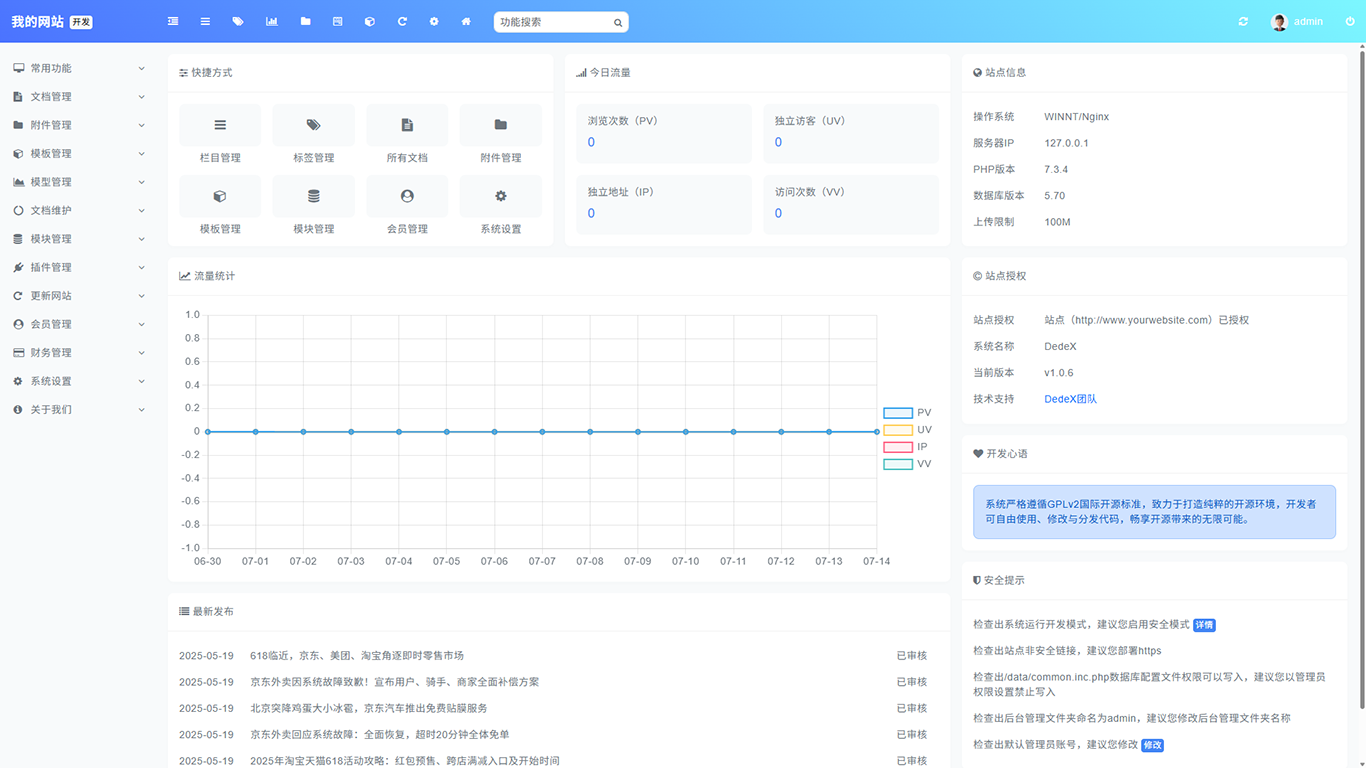
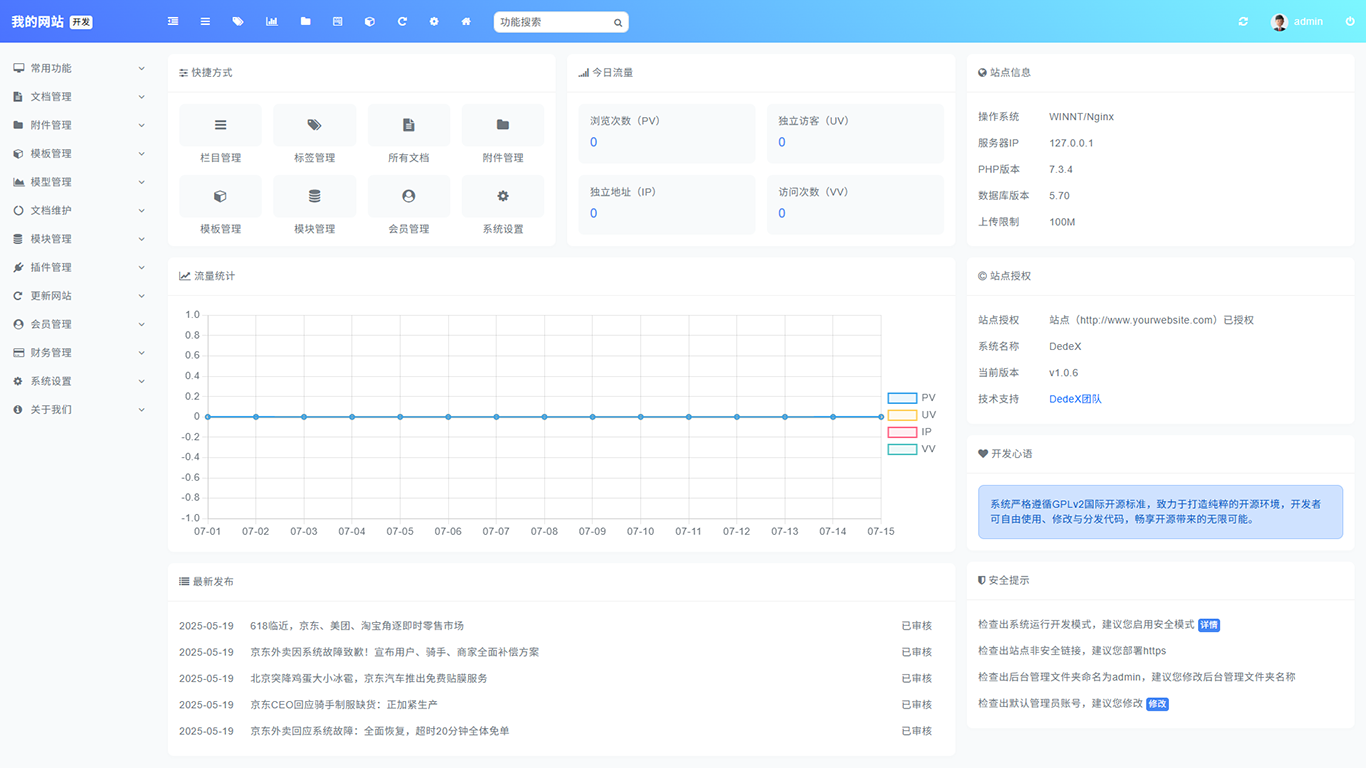
Localize and clarify error messages across codebase
Replaced English error and status messages with Chinese equivalents throughout admin, app, and system files for improved localization and user clarity. Also made minor code and comment clarifications, such as variable naming and comment updates, and adjusted some CSS canvas heights for better UI consistency.

diff --git a/src/admin/templets/module_main.htm b/src/admin/templets/module_main.htm
@@ -74,7 +74,6 @@
 										</td>
 										<td>
 											<div id="manager_<?php echo $v['hash'];?>" <?php if (!file_exists(DEDEDATA."/module/{$v['hash']}.xml")) echo "style='display:none'"?>>
-												<a class="btn btn-light btn-sm" href="module_main.php?action=view_developoer&hash=<?php echo $v['hash'];?>"><i class="fa fa-user-circle" title="贡献者"></i></a>
 												<a class="btn btn-light btn-sm" href="module_main.php?action=view&hash=<?php echo $v['hash'];?>"><i class="fa fa-eye" title="查看"></i></a>
 												<a class="btn btn-light btn-sm" href="module_main.php?action=edit&hash=<?php echo $v['hash'];?>"><i class="fa fa-pencil-square" title="修改"></i></a>
 												<a class="btn btn-danger btn-sm" href="module_main.php?action=del&hash=<?php echo $v['hash'];?>"><i class="fa fa-trash" title="删除"></i></a>

diff --git a/src/static/web/css/admin.css b/src/static/web/css/admin.css
@@ -666,7 +666,7 @@ body.menu-show .admin-content {
 	border-bottom:1px solid rgba(0,0,0,0.05)
 }
 .card-body canvas {
-	height:350px!important
+	height:328px!important
 }
 .table {
 	margin-bottom:0;
@@ -803,7 +803,7 @@ input,select,textarea,.adminmodal,.fastselect .topcat,.mysource,.mywriter,.tipsl
 		padding:0.75rem
 	}
 	.card-body canvas {
-		height:220px!important
+		height:218px!important
 	}
 	.adminmodal {
 		padding:0 0.5rem

diff --git a/src/system/common.inc.php b/src/system/common.inc.php
@@ -4,9 +4,9 @@
  * @package        DedeX.Libraries
  * @license        GNU GPL v2 (/license.txt)
  */
-//系统默认运行模式为安全模式，模板管理、标签管理、数据库管理、模块管理等功能已暂停，如果您需要这些功能，DEDEX_SAFE_MODE后面值`TRUE`改为`FALSE`恢复使用
+//系统默认运行模式为安全模式，模板管理、标签管理、数据库管理、模块管理等功能已暂停，如果您需要这些功能，DEDEX_SAFE_MODE后面值TRUE改为FALSE恢复使用
 define('DEDEX_SAFE_MODE', FALSE);
-//生产环境使用`production`，如果采用`dev`模式，会有一些php的报错信息提示，用于开发调试
+//生产环境使用production，如果采用dev模式，会有一些php的报错信息提示，用于开发调试
 if (!defined('DEDE_ENVIRONMENT')) {
     define('DEDE_ENVIRONMENT', 'production');
 }
@@ -71,7 +71,7 @@ function _RunMagicQuotes(&$svar)
         }
     } else {
         if (strlen($svar) > 0 && preg_match('#^(cfg_|GLOBALS|_GET|_REQUEST|_POST|_COOKIE|_SESSION)#', $svar)) {
-            exit('The requested operation is forbidden');
+            exit('所请求的操作被禁止');
         }
         $svar = addslashes($svar);
     }
@@ -80,7 +80,7 @@ function _RunMagicQuotes(&$svar)
 foreach (array('_GET', '_POST', '_COOKIE') as $_req) {
     foreach ($$_req as $_k => $_v) {
         if (preg_match('#^(cfg_|GLOBALS|_GET|_REQUEST|_POST|_COOKIE|_SESSION)#', $_k)) {
-            exit('The requested operation is forbidden');
+            exit('所请求的操作被禁止');
         }
         if ($_k == 'nvarname') ${$_k} = $_v;
         else ${$_k} = _RunMagicQuotes($_v);
@@ -135,37 +135,36 @@ if (PHP_VERSION > '5.1') {
 }
 $cfg_isUrlOpen = @ini_get("allow_url_fopen");
 if (!isset($cfg_cmspath)) $cfg_cmspath = '';
-//站点根目录
 $cfg_basedir = preg_replace('#'.$cfg_cmspath.'\/system$#i', '', DEDEINC);
 if ($cfg_multi_site == 'Y') {
     $cfg_mainsite = $cfg_basehost;
 } else {
     $cfg_mainsite = '';
 }
-//模板存放目录
+//主题模板目录
 $cfg_templets_dir = $cfg_cmspath.'/theme';
 $cfg_templeturl = $cfg_mainsite.$cfg_templets_dir;
 $cfg_templets_skin = empty($cfg_df_style) ? $cfg_mainsite.$cfg_templets_dir."/templets" : $cfg_mainsite.$cfg_templets_dir."/$cfg_df_style";
-//安装目录网址
+//安装网址目录
 $cfg_cmsurl = $cfg_mainsite.$cfg_cmspath;
 //模块插件目录
 $cfg_plus_dir = $cfg_cmspath.'/apps';
 $cfg_phpurl = $cfg_mainsite.$cfg_plus_dir;
-//一些缓存配置数据存放目录
+//缓存配置数据存放目录
 $cfg_data_dir = $cfg_cmspath.'/data';
 $cfg_dataurl = $cfg_mainsite.$cfg_data_dir;
 //专题存放目录
 $cfg_special = $cfg_cmspath.'/a/special';
 $cfg_specialurl = $cfg_mainsite.$cfg_special;
-//会员会员目录
+//会员中心目录
 $cfg_member_dir = $cfg_cmspath.'/user';
 $cfg_memberurl = $cfg_mainsite.$cfg_member_dir;
 //静态文件存放目录
 $cfg_static_dir = $cfg_cmspath.'/static';
 $cfg_staticurl = $cfg_mainsite.$cfg_static_dir;
-//上传图片存放目录，建议按默认
+//上传图片存放目录
 $cfg_image_dir = $cfg_medias_dir.'/allimg';
-//会员投稿图片存放目录
+//会员上传图片存放目录
 $cfg_user_dir = $cfg_medias_dir.'/userup';
 //上传软件存放目录
 $cfg_soft_dir = $cfg_medias_dir.'/soft';
@@ -178,14 +177,13 @@ $cfg_mediasurl = $cfg_mainsite.$cfg_medias_dir;
 $cfg_version = '1';
 $cfg_version_detail = '1.0.6';//详细版本号
 $cfg_soft_lang = 'utf-8';
-$cfg_soft_public = 'base';
-$cfg_softname = '得德未来';
+$cfg_soft_chname = '得德未来';
 $cfg_soft_enname = 'DedeX';
 $cfg_soft_devteam = 'DedeX团队';
-//文档的默认命名规则
+//文档默认命名规则
 $art_shortname = $cfg_df_ext = '.html';
 $cfg_df_namerule = '{typedir}/{aid}'.$cfg_df_ext;
-//新建目录的权限，如果您使用别的属性，本程不保证程序能顺利在Linux或Unix系统运行
+//新建目录的权限，如果您使用别的属性，不保证程序能顺利在Linux或Unix系统运行
 $cfg_dir_purview = 0755;
 //Cookie设置
 $cfg_cookie_samesite = 'Lax'; //samesite属性（Lax, Strict or None）

diff --git a/src/apps/list.php b/src/apps/list.php
@@ -11,28 +11,28 @@ $t1 = ExecTime();
 $tid = (isset($tid) && is_numeric($tid) ? $tid : 0);
 $mod = (isset($mod) && is_numeric($mod) ? $mod : 0);
 $channelid = (isset($channelid) && is_numeric($channelid) ? $channelid : 0);
+if ($tid == 0 && $channelid == 0) die('dedex');
+if (isset($TotalResult)) $TotalResult = intval(preg_replace("/[^\d]/", '', $TotalResult));
 //根据流量统计，限制用户浏览
 if ($cfg_access == 'Y') {
     $viewIp = GetIP();
     $moon = time() - (24 * 60 * 60);
-    $row = $dsql->GetOne("SELECT COUNT(DISTINCT id) AS view_count FROM `#@__statistics_detail` WHERE ip='$viewIp' AND t>='$moon' AND url_type=1 ");
-    if ($row && $row['view_count'] > $cfg_access_count) {
+    $flow = $dsql->GetOne("SELECT COUNT(DISTINCT id) AS view_count FROM `#@__statistics_detail` WHERE ip='$viewIp' AND t>='$moon' AND url_type=1 ");
+    if ($flow && $flow['view_count'] > $cfg_access_count) {
         header("HTTP/1.1 403 Forbidden");
-        echo "Access Denied";
+        echo "拒绝访问";
         exit();
     }
 }
-if ($tid == 0 && $channelid == 0) die("dedex");
-if (isset($TotalResult)) $TotalResult = intval(preg_replace("/[^\d]/", '', $TotalResult));
-//如果指定了文档模型id但没有指定栏目id，那么自动获得为这个文档模型的第一个顶级栏目作为栏目默认栏目
+//如果指定文档模型id但没指定栏目id，则文档模型的第一个顶级栏目作为栏目默认栏目
 if (!empty($channelid) && empty($tid)) {
     $tinfos = $dsql->GetOne("SELECT tp.id,ch.issystem FROM `#@__arctype` tp LEFT JOIN `#@__channeltype` ch ON ch.id=tp.channeltype WHERE tp.channeltype='$channelid' And tp.reid=0 ORDER BY sortrank ASC");
-    if (!is_array($tinfos)) die(" No catalogs in the channel! ");
+    if (!is_array($tinfos)) die("频道中没有目录");
     $tid = $tinfos['id'];
 } else {
     $tinfos = $dsql->GetOne("SELECT ch.issystem FROM `#@__arctype` tp LEFT JOIN `#@__channeltype` ch ON ch.id=tp.channeltype WHERE tp.id='$tid' ");
 }
-if (empty($tinfos)) die( DedeAlert("栏目信息获取失败，请检查是否存在当前栏目", ALERT_DANGER));
+if (empty($tinfos)) die(DedeAlert("栏目信息获取失败，请检查是否存在当前栏目", ALERT_DANGER));
 if ($tinfos['issystem'] == -1) {
     $nativeplace = ((empty($nativeplace) || !is_numeric($nativeplace)) ? 0 : $nativeplace);
     $infotype = ((empty($infotype) || !is_numeric($infotype)) ? 0 : $infotype);

diff --git a/src/system/common.func.php b/src/system/common.func.php
@@ -145,7 +145,7 @@ if (!function_exists('CheckSql')) {
             $notallow1 = "[^0-9a-z@\._-]{1,}(union|sleep|benchmark|load_file|outfile)[^0-9a-z@\.-]{1,}";
             if (preg_match("/".$notallow1."/i", $db_string)) {
                 fputs(fopen($log_file, 'a+'), "$userIP||$getUrl||$db_string||SelectBreak\r\n");
-                exit("<span>Safe Alert: Request Error step 1 !</span>");
+                exit("<span>安全警报：请求错误步骤1</span>");
             }
         }
         //完整的SQL检查
@@ -210,7 +210,7 @@ if (!function_exists('CheckSql')) {
         }
         if (!empty($fail)) {
             fputs(fopen($log_file, 'a+'), "$userIP||$getUrl||$db_string||$error\r\n");
-            exit("<span>Safe Alert: Request Error step 2!</span>");
+            exit("<span>安全警报：请求错误步骤2</span>");
         } else {
             return $db_string;
         }
@@ -252,7 +252,7 @@ function helper($helpers)
     }
     //无法载入助手
     if (!isset($_helpers[$helpers])) {
-        exit('Unable to load the requested file: helpers/'.$helpers.'.helper.php');
+        exit('无法加载请求的文件/{$helpers}.helper.php');
     }
 }
 function dede_htmlspecialchars($str)

diff --git a/src/system/dedetemplate.class.php b/src/system/dedetemplate.class.php
@@ -367,7 +367,7 @@ class DedeTemplate
         include $this->cacheFile;
         $okstr = ob_get_contents();
         ob_end_clean();
-        $fp = @fopen($savefile, "w") or die(" Tag Engine Create File FALSE! ");
+        $fp = @fopen($savefile, "w") or die("标签引擎创建文件错误");
         fwrite($fp, $okstr);
         fclose($fp);
     }
@@ -413,7 +413,7 @@ class DedeTemplate
             if (!$this->isParse) {
                 $this->ParseTemplate();
             }
-            $fp = fopen($this->cacheFile, 'w') or dir("Write Cache File Error! ");
+            $fp = fopen($this->cacheFile, 'w') or dir("写入缓存文件错误");
             flock($fp, 3);
             $result = trim($this->GetResult());
             $errmsg = '';
@@ -425,7 +425,7 @@ class DedeTemplate
             fwrite($fp, $result);
             fclose($fp);
             if (count($this->tpCfgs) > 0) {
-                $fp = fopen($this->configFile, 'w') or dir("Write Config File Error! ");
+                $fp = fopen($this->configFile, 'w') or dir("写入配置文件错误");
                 flock($fp, 3);
                 fwrite($fp, '<'.'?php'."\r\n");
                 foreach ($this->tpCfgs as $k => $v) {

diff --git a/src/system/helpers/upload.helper.php b/src/system/helpers/upload.helper.php
@@ -176,11 +176,11 @@ if (!function_exists('MemberUploads')) {
             if ($handname == '') {
                 return $handname;
             } else if (preg_match("/\.(asp|php|pl|cgi|shtm|js|htm)$/", $handname)) {
-                exit('Not allow filename for not safe!');
+                exit('不允许文件名，因为不安全');
             } else if (!preg_match("/\.(".$allAllowType.")$/", $handname)) {
-                exit('Not allow filename for filetype!');
+                exit('不允许文件名作为文件类型');
             } else if (!preg_match('#^(http|https):#', $handname) && !preg_match('#^'.$cfg_user_dir.'/'.$userid."#", $handname) && !$isadmin) {
-                exit('Not allow filename for not userdir!');
+                exit('不允许非用户目录的文件名');
             }
             return $handname;
         }

diff --git a/src/apps/mytag_js.php b/src/apps/mytag_js.php
@@ -10,13 +10,13 @@ require_once(dirname(__FILE__).'/../system/common.inc.php');
 require_once(DEDEINC.'/archive/partview.class.php');
 if (isset($arcID)) $aid = $arcID;
 $arcID = $aid = (isset($aid) && is_numeric($aid)) ? $aid : 0;
-if ($aid == 0) die(" document.write('Request Error!'); ");
+if ($aid == 0) die("document.write('请求错误');");
 $cacheFile = DEDEDATA.'/cache/mytag-'.$aid.'.htm';
 if (isset($nocache) || !file_exists($cacheFile) || time() - filemtime($cacheFile) > $cfg_puccache_time) {
     $pv = new PartView();
     $row = $pv->dsql->GetOne("SELECT * FROM `#@__mytag` WHERE aid='$aid' ");
     if (!is_array($row)) {
-        $myvalues = "<!--\r\ndocument.write('Not found input!');\r\n-->";
+        $myvalues = "<!--\r\ndocument.write('标签未输入');\r\n-->";
     } else {
         $tagbody = '';
         if ($row['timeset'] == 0) {

diff --git a/src/system/dedemodule.class.php b/src/system/dedemodule.class.php
@@ -48,8 +48,8 @@ class DedeModule
     function GetModuleList($moduletype = '')
     {
         if (is_array($this->modules)) return $this->modules;
-        $dh = dir($this->modulesPath) or die("没找到模块目录：({$this->modulesPath})");
-        $fp = @fopen($this->modulesPath.'/modulescache.php', 'w') or die('读取文件权限出错，目录：'.$this->modulesPath.'/modulescache.php文件不可写');
+        $dh = dir($this->modulesPath) or die("没找到模块目录：{$this->modulesPath}");
+        $fp = @fopen($this->modulesPath."/modulescache.php", "w") or die("读取文件权限出错，目录：{$this->modulesPath}/modulescache.php文件不可写");
         fwrite($fp, "<"."?php\r\n");
         fwrite($fp, "global \$allmodules;\r\n");
         while ($filename = $dh->read()) {

diff --git a/src/apps/tags.php b/src/apps/tags.php
@@ -12,10 +12,10 @@ require_once(DEDEINC."/archive/taglist.class.php");
 if ($cfg_access == 'Y') {
     $viewIp = GetIP();
     $moon = time() - (24 * 60 * 60);
-    $row = $dsql->GetOne("SELECT COUNT(DISTINCT id) AS view_count FROM `#@__statistics_detail` WHERE ip='$viewIp' AND t>='$moon' AND url_type=4 ");
-    if ($row && $row['view_count'] > $cfg_access_count) {
+    $flow = $dsql->GetOne("SELECT COUNT(DISTINCT id) AS view_count FROM `#@__statistics_detail` WHERE ip='$viewIp' AND t>='$moon' AND url_type=4 ");
+    if ($flow && $flow['view_count'] > $cfg_access_count) {
         header("HTTP/1.1 403 Forbidden");
-        echo "Access Denied";
+        echo "拒绝访问";
         exit();
     }
 }

diff --git a/src/admin/friendlink_edit.php b/src/admin/friendlink_edit.php
@@ -56,7 +56,7 @@ if ($dopost == "delete") {
         }
         $logoimg_name = trim(preg_replace("#[ \r\n\t\*\%\\\/\?><\|\":]{1,}#", '', $logoimg_name));
         $fullfilename = DEDEROOT.'/static/flink/'.$logoimg_name;
-        move_uploaded_file($logoimg, $fullfilename) or die("上传文件到".$fullfilename."失败");
+        move_uploaded_file($logoimg, $fullfilename) or die("上传文件到{$fullfilename}失败");
         @unlink($logoimg);
         $logo = $cfg_cmspath.'/static/flink/'.$logoimg_name;
     }

diff --git a/src/system/libraries/statistics.class.php b/src/system/libraries/statistics.class.php
@@ -95,11 +95,11 @@ class DedeStatistics {
         $sign = $pmvalue['sign'];
         unset($pmvalue['sign']);
         if (time() - $pmvalue['t'] > 5) {
-            die("DedeX:time out");
+            die("统计超时");
         }
         $cs = sha1(http_build_query($pmvalue).md5($cfg_cookie_encode));
         if ($sign !== $cs) {
-            die("DedeX:check sign failed");
+            die("检查失败");
         }
         $pmvalue['ip'] = GetIP();
         $kstr = $vstr = array();
